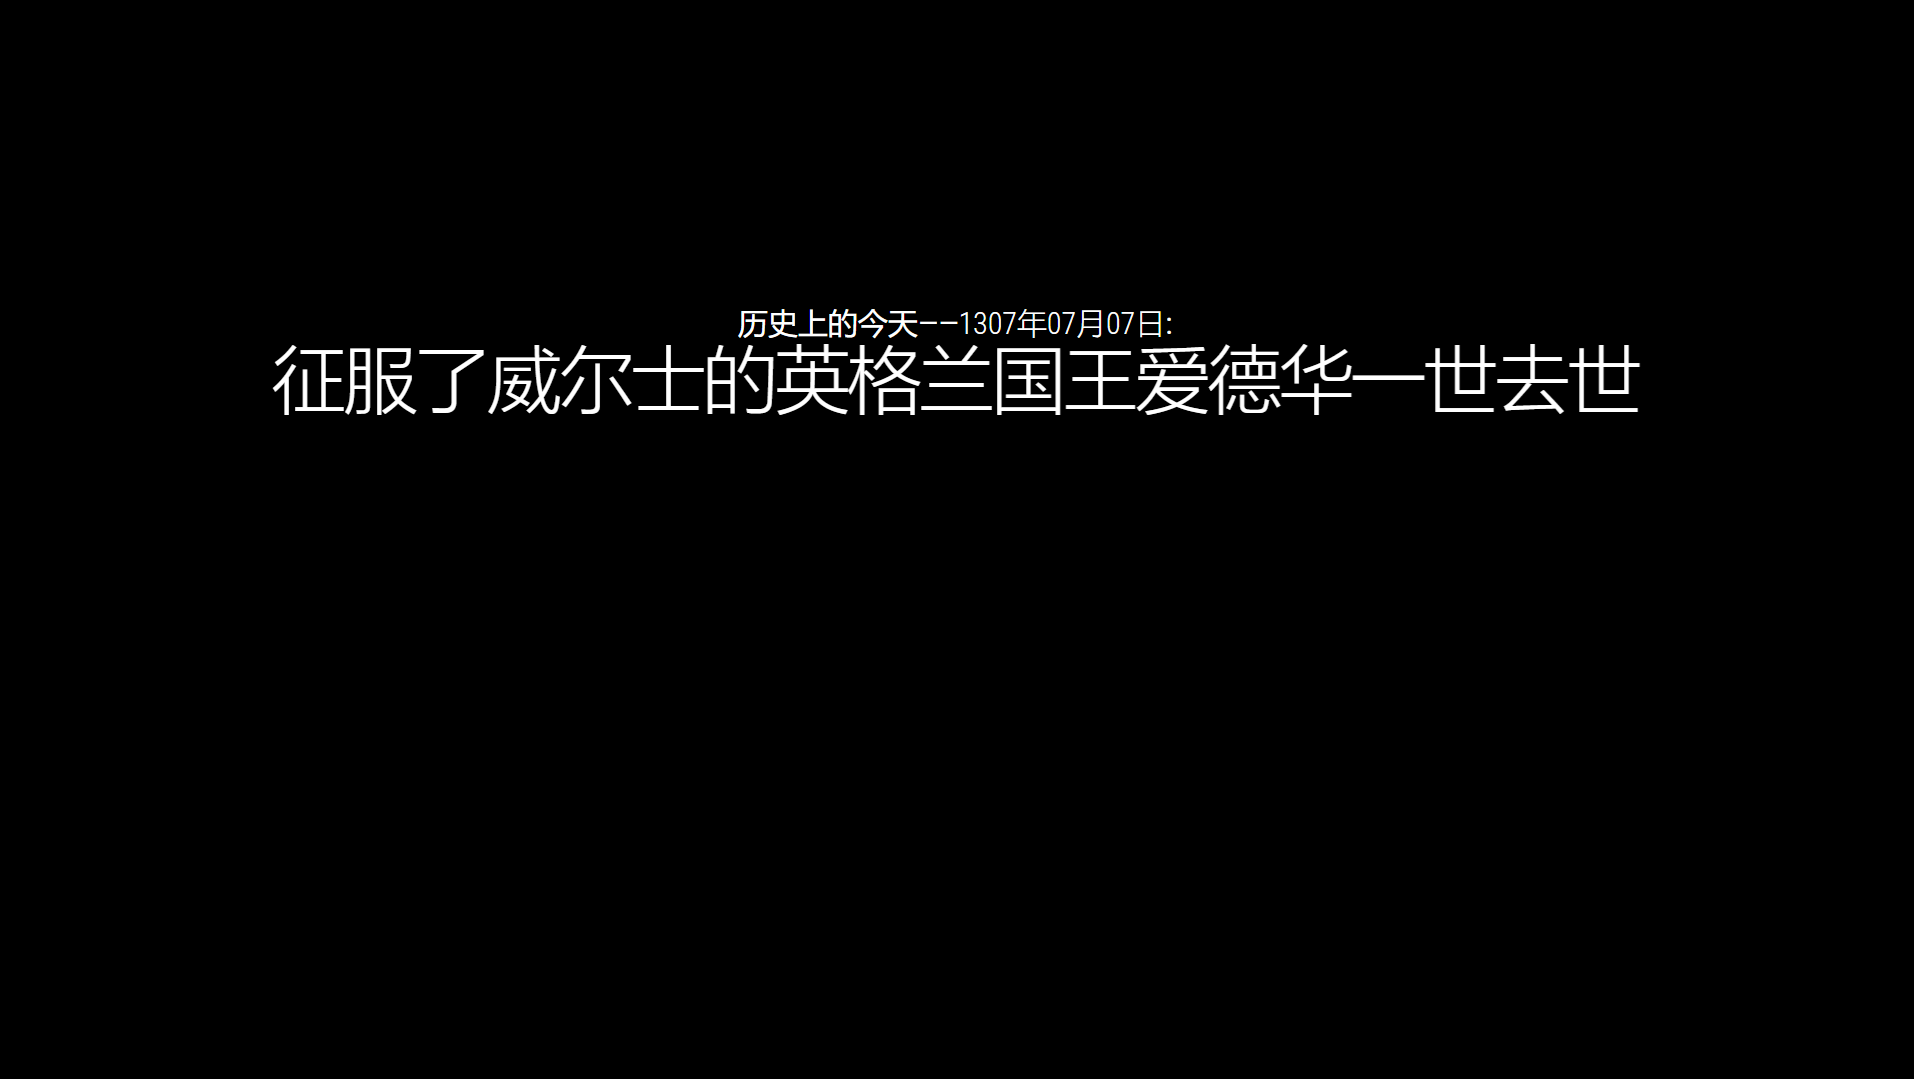
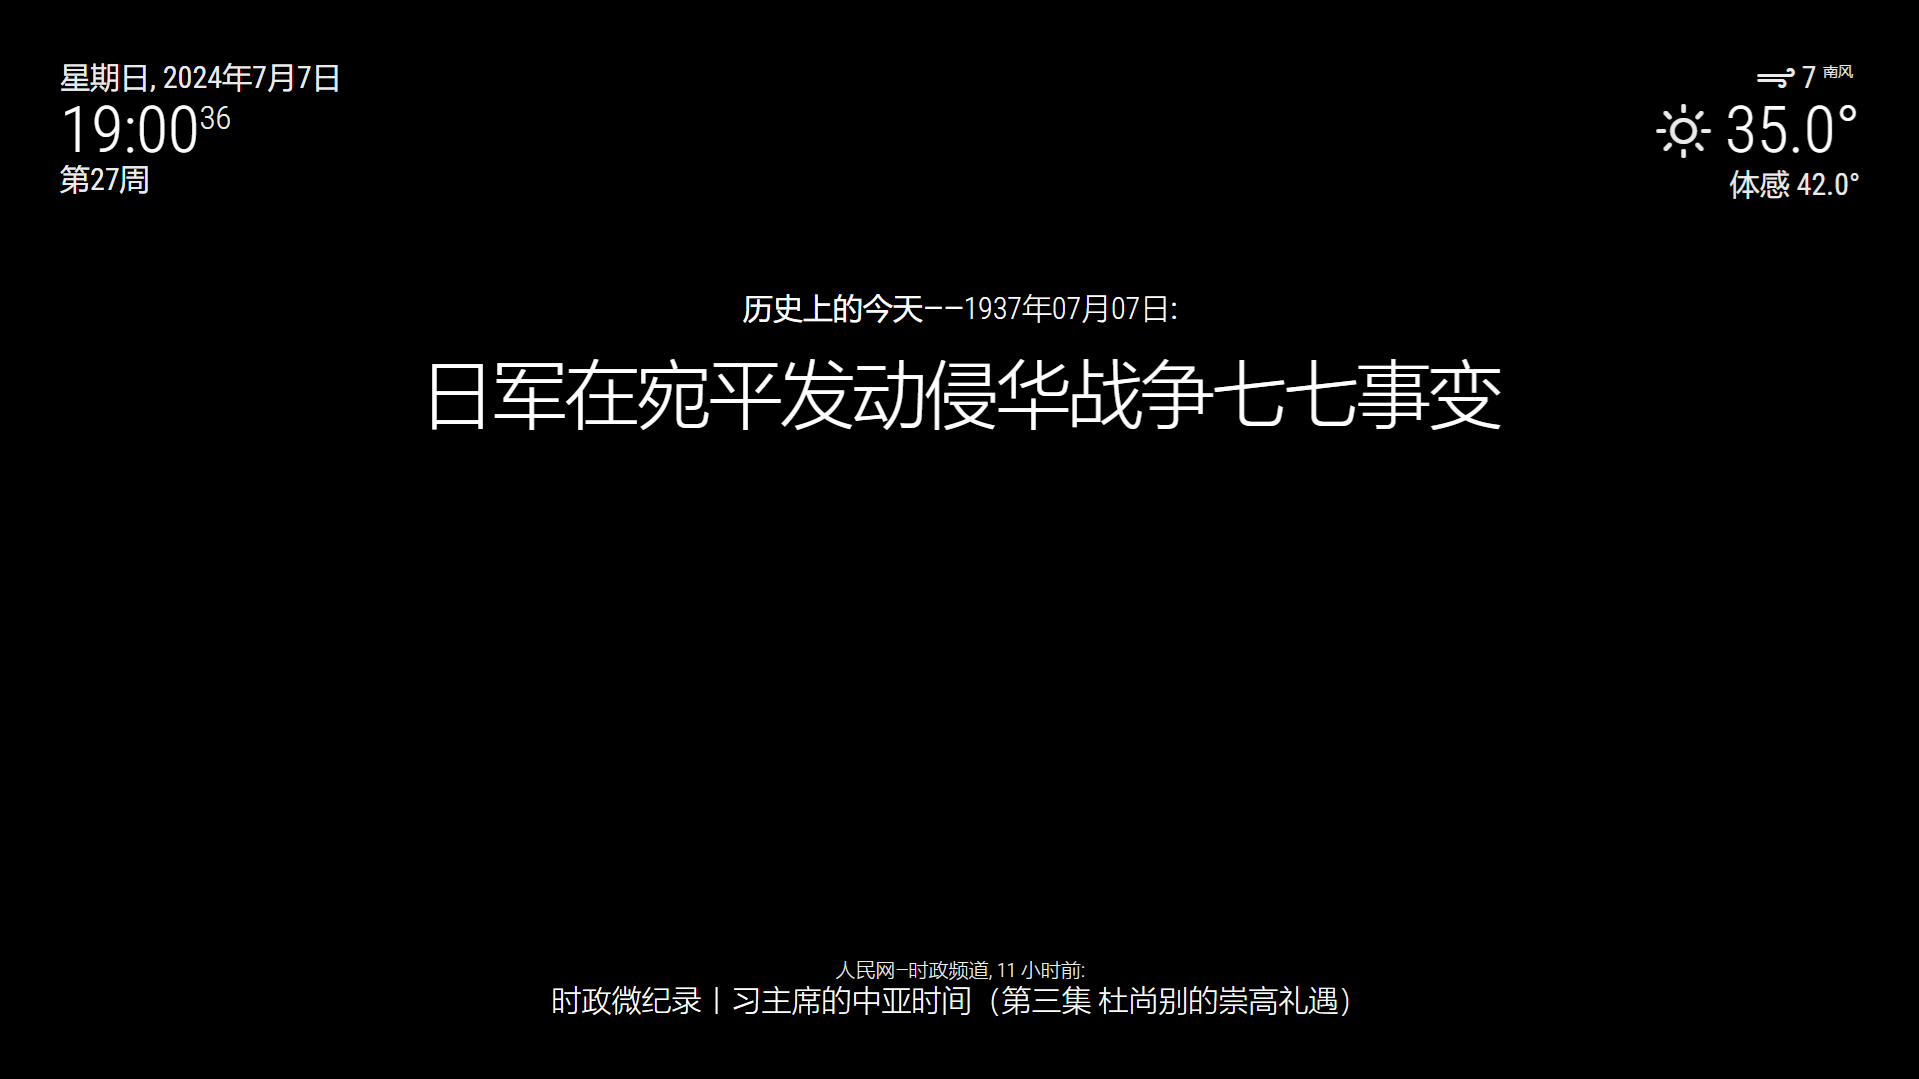
修订文档

diff --git a/MMM-TodayinHistory.js b/MMM-TodayinHistory.js
@@ -63,6 +63,7 @@ Module.register("MMM-TodayinHistory", {
 		titleWrapper.appendChild(colonWrapper);
 
 		wrapper.appendChild(titleWrapper);
+		wrapper.appendChild(document.createElement("BR"));
 		wrapper.appendChild(factWrapper);
 		this.index++;
 		if (this.index >= this.HistoryData.length - 1) {
@@ -82,11 +83,11 @@ Module.register("MMM-TodayinHistory", {
 			}
 		}, 1000);
 	},
-	socketNotificationReceived (notification, payload) {
+	socketNotificationReceived (notification, data) {
 		if (notification === "getJson_r") {
 			Log.info("获取当天数据。");
 			this.index = 0;
-			this.HistoryData = payload.result;
+			this.HistoryData = data.result;
 			this.updateDom(this.config.animationSpeed * 1000);
 		}
 	}

diff --git a/node_helper.js b/node_helper.js
@@ -4,11 +4,11 @@ module.exports = NodeHelper.create({
 	start () {
 	},
 
-	async socketNotificationReceived (notification, payload) {
+	async socketNotificationReceived (notification, url) {
 		if (notification === "getJson_s") {
 			var self = this;
 			try {
-				const response = await fetch(payload);
+				const response = await fetch(url);
 				if (!response.ok) {
 					throw new Error(`HTTP error! status: ${response.status}`);
 				}

diff --git a/README.md b/README.md
@@ -4,5 +4,3 @@
 
 ## 预览
 ![MMM-TodayinHistory](screenshot.png)
-
-
